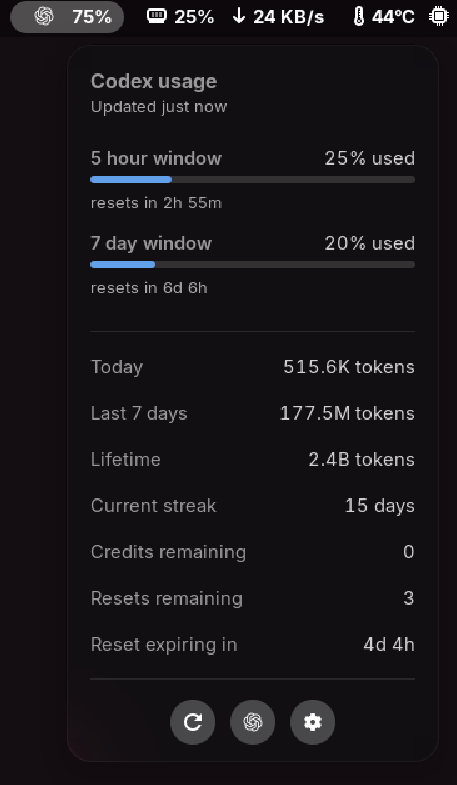
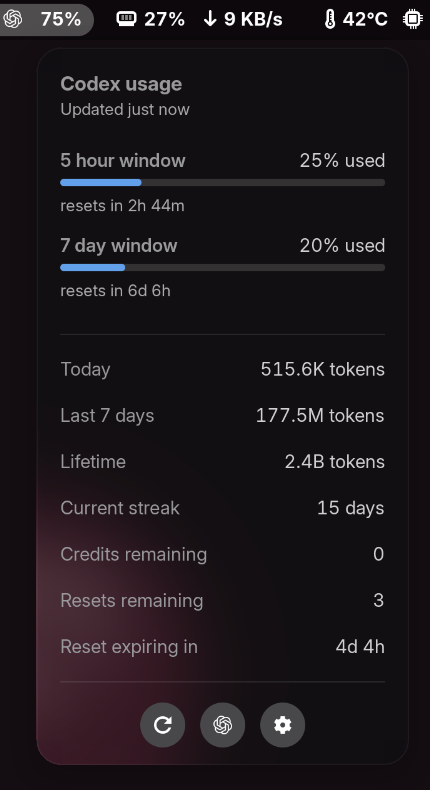
docs: refine README screenshots

diff --git a/README.md b/README.md
@@ -8,11 +8,14 @@ and menu.
 The panel menu shows quota windows, token totals, streak, credits, and reset
 details.
 
-![Codex usage menu in the GNOME panel](static/panel.png)
+<img src="static/panel.png" alt="Codex usage menu in the GNOME panel, showing 75% remaining" width="360">
 
 Preferences let you hide fields and move them up or down to change their order.
 
-![Codex Usage preferences with field toggles and ordering controls](static/settings.png)
+<img src="static/settings.png" alt="Codex Usage preferences with field toggles and ordering controls" width="620">
+
+The blurred background in the panel screenshot comes from Blur my Shell. Panel
+appearance depends on your GNOME theme and settings.
 
 ## Features
 
